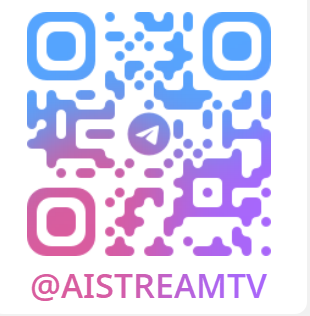
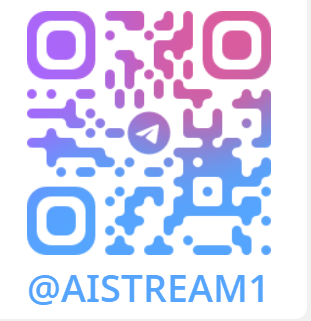
TG 群换成新地址 https://t.me/AIStream1（README 6 处 + 授权提示文案 + 新二维码）

diff --git a/server.js b/server.js
@@ -99,7 +99,7 @@ HwIDAQAB
 const LIC_PREFIX = 'AIST';
 /* GitHub 分发前把这里改成你自己的联系方式 —— 它随代码走，别人装好的空壳激活页会显示它。
    自己在后台「授权管理 → ⑤ 前台联系方式」填的内容会覆盖这里。 */
-const LIC_CONTACT = '进官方 TG 群 https://t.me/AIStreamTV 领取授权码（发机器码即可，永久码免费）。';
+const LIC_CONTACT = '进官方 TG 群 https://t.me/AIStream1 领取授权码（发机器码即可，永久码免费）。';
 function b64u(buf) { return Buffer.from(buf).toString('base64').replace(/\+/g, '-').replace(/\//g, '_').replace(/=+$/, ''); }
 function b64uDec(s) { return Buffer.from(String(s).replace(/-/g, '+').replace(/_/g, '/'), 'base64'); }
 /* 机器码：由本机 MAC + 主机名 + 平台生成（确定性，同一台机器/同一个数据卷永远一致），
